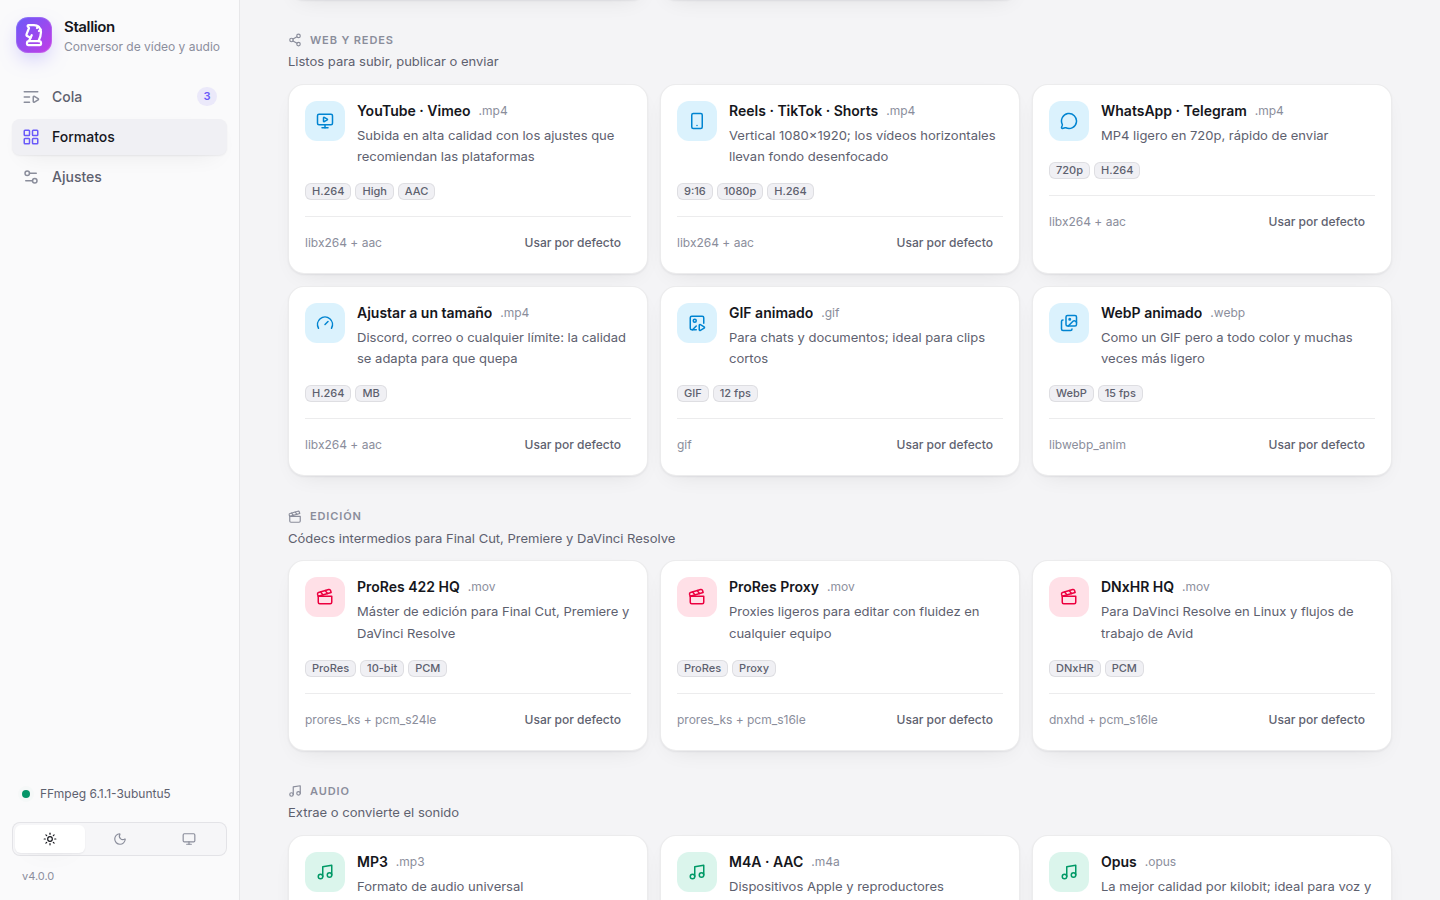
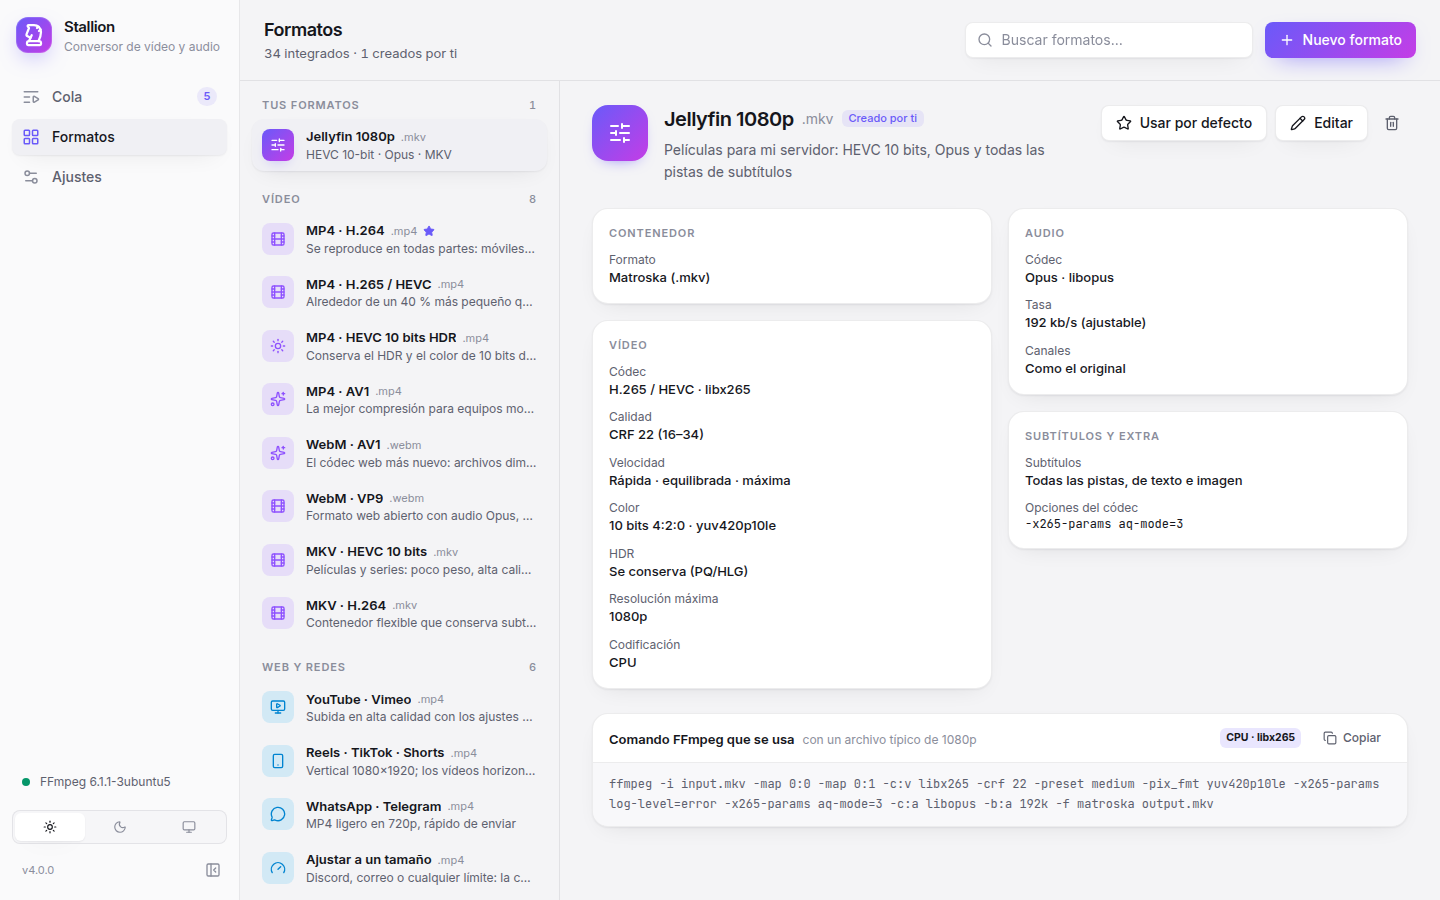
Refresh the README screenshots for the new queue, monitor and formats
Adds the table layout, the activity monitor and the format editor next to
the existing views. All captured with the real FFmpeg on a machine
without a GPU, so the GPU panel says so.

diff --git a/README.md b/README.md
@@ -25,9 +25,13 @@ Modern video and audio converter powered by FFmpeg. The same web-based UI runs a
 - **Spanish and English UI**, light theme by default with an optional dark mode, keyboard shortcuts.
 - **Headless CLI** for scripts and servers.
 
-| Tracks and subtitles | Formats | Dark mode |
+| Table view | Activity monitor | Tracks and subtitles |
 | --- | --- | --- |
-| ![Tracks](docs/screenshots/tracks-light.png) | ![Formats](docs/screenshots/formats-light.png) | ![Dark mode](docs/screenshots/queue-dark.png) |
+| ![Table view with the options underneath](docs/screenshots/table-light.png) | ![CPU and GPU monitor](docs/screenshots/monitor-light.png) | ![Tracks](docs/screenshots/tracks-light.png) |
+
+| Formats | Format editor | Dark mode |
+| --- | --- | --- |
+| ![Formats with their parameters and command](docs/screenshots/formats-light.png) | ![Format editor](docs/screenshots/editor-light.png) | ![Dark mode](docs/screenshots/queue-dark.png) |
 
 ## Quick start
 
